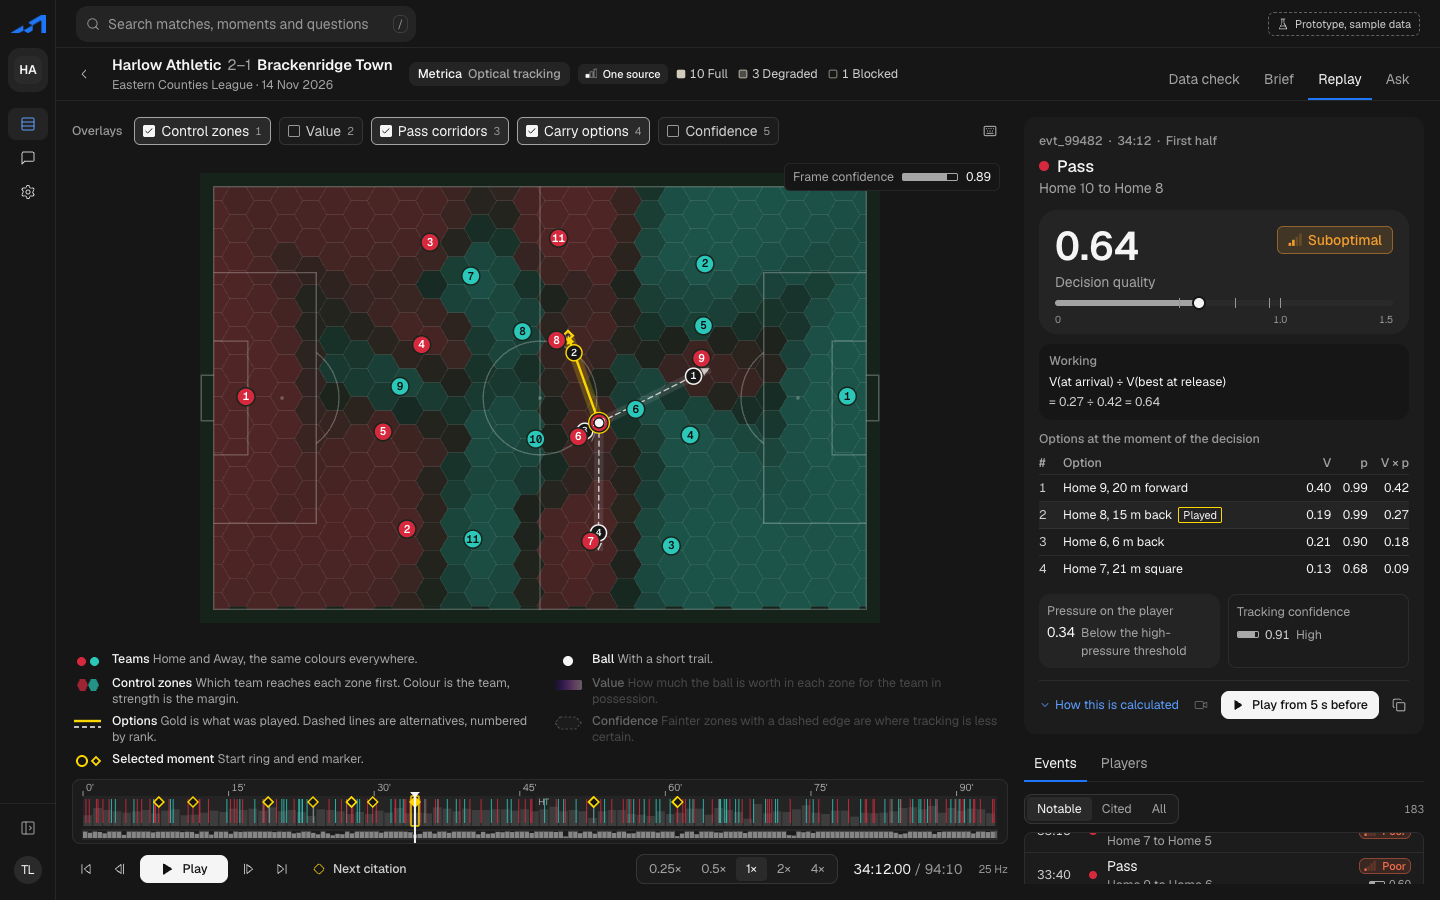
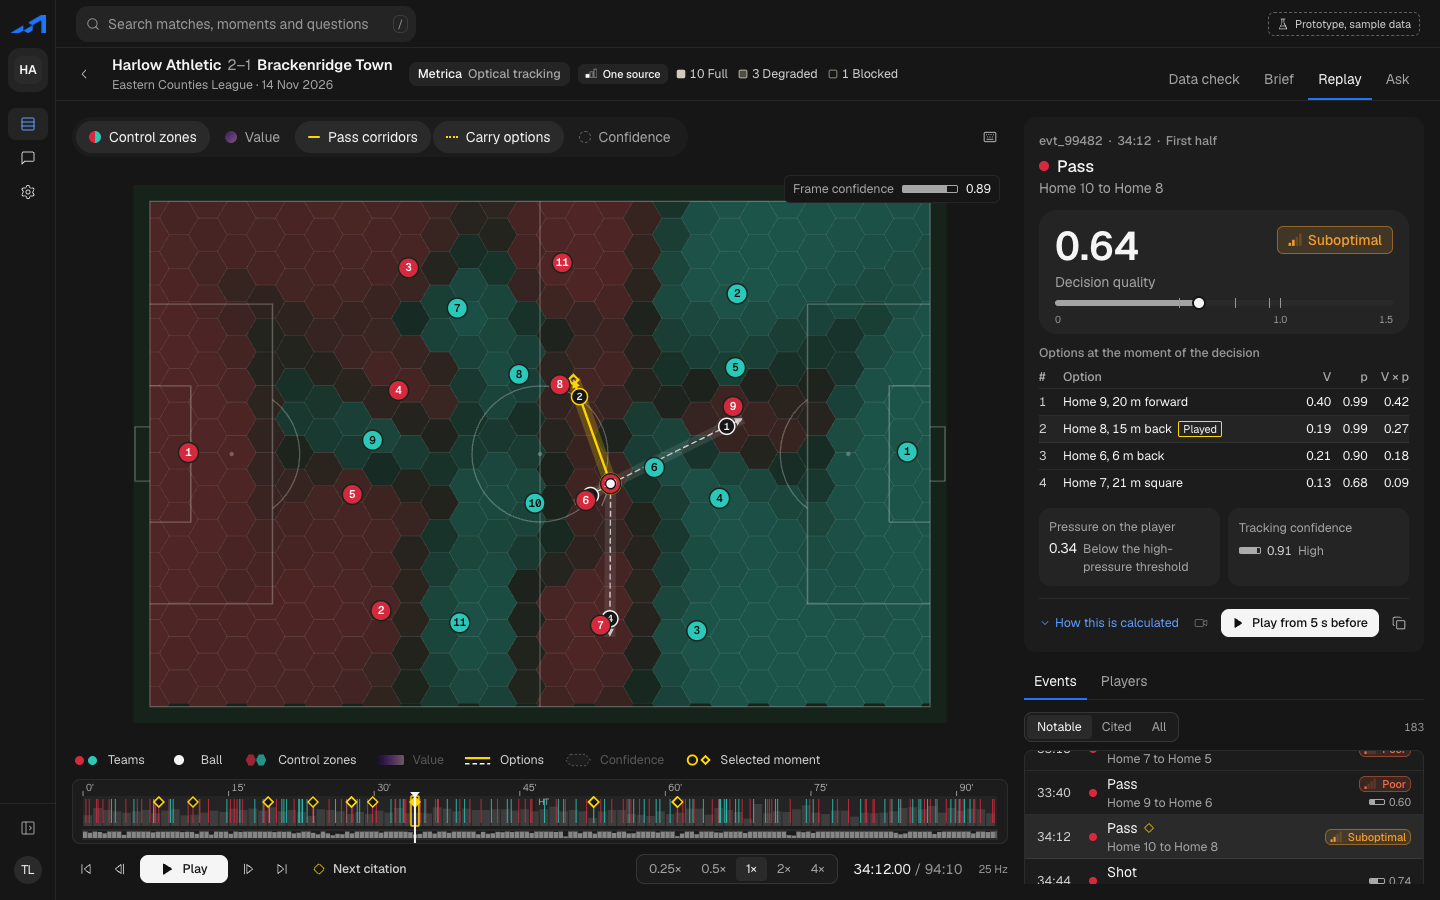
Replay: pill overlay toggles, one-line legend, more room for events
- Overlay toggles as pills in one soft group, each with its own swatch; shortcuts in the tooltip
- Legend as one row of swatch and name; explanations in tooltips; slots still fixed
- Working formula moves under 'How this is calculated'; a score above 1.0 still explained inline
- Explain tiles as fills; dashed edge kept for low confidence

diff --git a/src/pages/Replay.tsx b/src/pages/Replay.tsx
@@ -40,25 +40,43 @@ const TOGGLES: ToggleDef[] = [
   { key: 'confidence', label: 'replay.ov_confidence', metric: null, shortcut: '5', needsPlayers: true },
 ]
 
+/** Small swatch per overlay, matching the legend, so the toggle says what it draws. */
+function OverlaySwatch({ k }: { k: keyof Overlays }) {
+  if (k === 'control')
+    return (
+      <span aria-hidden className="flex size-3 overflow-hidden rounded-full">
+        <span className="h-full w-1/2 bg-home" />
+        <span className="h-full w-1/2 bg-away" />
+      </span>
+    )
+  if (k === 'value') return <span aria-hidden className="size-3 rounded-full" style={{ background: 'linear-gradient(135deg,var(--heat-2),var(--heat-6))' }} />
+  if (k === 'corridors') return <span aria-hidden className="h-0.5 w-3 rounded-full bg-highlight" />
+  if (k === 'carries') return <span aria-hidden className="h-0 w-3 border-t-2 border-dotted border-highlight" />
+  return <span aria-hidden className="size-3 rounded-full border border-dashed border-[var(--conf-ink)]" />
+}
+
 function OverlayToggle({ def, on, state, reason, disabled, onChange }: { def: ToggleDef; on: boolean; state: ParityState | null; reason?: string; disabled: boolean; onChange: (v: boolean) => void }) {
+  // Toggle pills (reference style): on is a soft fill in full colour, off is quiet text.
+  // The keyboard shortcut lives in the tooltip and the shortcuts popover, not on the pill.
   const btn = (
     <button
       type="button"
       aria-pressed={on}
+      aria-keyshortcuts={def.shortcut}
+      title={reason ? undefined : `${t(def.label)} (${def.shortcut})`}
       disabled={disabled}
       onClick={() => onChange(!on)}
       className={cn(
-        'inline-flex h-7 items-center gap-1.5 rounded-sm border px-2 text-sm transition-colors duration-[var(--dur-fast)] disabled:cursor-not-allowed',
-        on ? 'border-fg-3 bg-s3 text-fg-1' : 'border-hair-strong bg-s1 text-fg-2 hover:bg-s2 hover:text-fg-1',
-        disabled && 'border-dashed text-fg-4 hover:bg-s1 hover:text-fg-4',
+        'inline-flex h-8 items-center gap-2 rounded-full border px-3 text-sm transition-colors duration-[var(--dur-fast)] disabled:cursor-not-allowed',
+        on ? 'border-transparent bg-s3 text-fg-1' : 'border-transparent bg-transparent text-fg-3 hover:bg-s2 hover:text-fg-1',
+        disabled && 'border-dashed border-hair-strong text-fg-4 hover:bg-transparent hover:text-fg-4',
       )}
     >
-      <span aria-hidden className={cn('flex size-3 items-center justify-center rounded-[2px] border', on ? 'border-fg-1 bg-fg-1 text-canvas' : 'border-fg-4')}>
-        {on ? <Check className="size-2.5" strokeWidth={3} /> : null}
+      <span className={cn('flex items-center', !on && 'opacity-50')}>
+        <OverlaySwatch k={def.key} />
       </span>
       {t(def.label)}
       {state && state !== 'full' ? <ParityIcon state={state} size={11} /> : null}
-      <span className="font-mono text-2xs text-fg-4">{def.shortcut}</span>
     </button>
   )
   if (!reason) return btn
@@ -290,11 +308,12 @@ function EventsPane(props: { lp: LoadedPack; store: PlaybackStore; cited: string
 function Toolbar({ lp, store, overlays, setOverlays, avail }: { lp: LoadedPack; store: PlaybackStore; overlays: Overlays; setOverlays: React.Dispatch<React.SetStateAction<Overlays>>; avail: (d: ToggleDef) => { state: ParityState | null; blocked: boolean; reason?: string } }) {
   return (
     <div className="flex flex-wrap items-center gap-2" role="toolbar" aria-label={t('replay.overlays')}>
-      <span className="mr-1 text-xs font-medium text-fg-4">{t('replay.overlays')}</span>
-      {TOGGLES.map((d) => {
-        const a = avail(d)
-        return <OverlayToggle key={d.key} def={d} on={overlays[d.key] && !a.blocked} state={a.state} reason={a.reason} disabled={a.blocked} onChange={(v) => setOverlays((o) => ({ ...o, [d.key]: v }))} />
-      })}
+      <div className="flex flex-wrap items-center gap-0.5 rounded-full bg-s1 p-1">
+        {TOGGLES.map((d) => {
+          const a = avail(d)
+          return <OverlayToggle key={d.key} def={d} on={overlays[d.key] && !a.blocked} state={a.state} reason={a.reason} disabled={a.blocked} onChange={(v) => setOverlays((o) => ({ ...o, [d.key]: v }))} />
+        })}
+      </div>
       <div className="ml-auto flex items-center gap-3">
         <Popover>
           <PopoverTrigger asChild>

diff --git a/src/components/replay/ExplainCard.tsx b/src/components/replay/ExplainCard.tsx
@@ -45,7 +45,7 @@ function Head({ e, htAt }: { e: MatchEvent; htAt: number }) {
 function Confidence({ e }: { e: MatchEvent }) {
   const low = confLevel(e.conf) === 'low'
   return (
-    <div className={cn('mt-3 rounded-md border p-2.5', low ? 'border-dashed border-[var(--conf-ink)]' : 'border-hair')}>
+    <div className={cn('mt-3 rounded-lg border p-2.5', low ? 'border-dashed border-[var(--conf-ink)]' : 'border-transparent bg-s2')}>
       <div className="flex items-center justify-between gap-2">
         <span className="text-sm text-fg-3">{t('explain.confidence')}</span>
         <ConfidenceIndicator value={e.conf} />
@@ -77,7 +77,7 @@ function Tiles({ e }: { e: MatchEvent }) {
   return (
     <>
       <div className="mt-3 grid grid-cols-2 gap-2">
-        <div className="rounded-lg bg-s2 p-2">
+        <div className="rounded-lg bg-s2 p-2.5">
           <p className="text-xs text-fg-3">{t('explain.pressure')}</p>
           <p className="mt-0.5 flex items-baseline gap-1.5 text-sm">
             <span className="font-mono tabular-nums text-fg-1">{e.press.toFixed(2)}</span>
@@ -90,7 +90,7 @@ function Tiles({ e }: { e: MatchEvent }) {
             )}
           </p>
         </div>
-        <div className={cn('rounded-md border p-2', low ? 'border-dashed border-[var(--conf-ink)]' : 'border-hair')}>
+        <div className={cn('rounded-lg border p-2.5', low ? 'border-dashed border-[var(--conf-ink)]' : 'border-transparent bg-s2')}>
           <p className="text-xs text-fg-3">{t('explain.confidence')}</p>
           <div className="mt-0.5">
             <ConfidenceIndicator value={e.conf} />
@@ -143,14 +143,9 @@ function Measured({ e }: { e: MatchEvent }) {
         <DqScale value={e.dq ?? 0} />
       </div>
 
-      <div className="mt-2.5 rounded-lg bg-canvas px-2.5 py-2">
-        <p className="text-xs font-medium text-fg-4">{t('explain.working')}</p>
-        <p className="mt-0.5 font-mono text-[12.5px] tabular-nums text-fg-1">V(at arrival) ÷ V(best at release)</p>
-        <p className="font-mono text-[12.5px] tabular-nums text-fg-2">
-          = {vA.toFixed(2)} ÷ {vB.toFixed(2)} = {(e.dq ?? 0).toFixed(2)}
-        </p>
-        {(e.dq ?? 0) >= DQ_ELEVATED ? <p className="mt-1.5 text-xs text-fg-2">{t('explain.elevated')}</p> : null}
-      </div>
+      {/* The working formula now opens under "How this is calculated"; a score above 1.0 is
+          explained here because it would otherwise read as an error. */}
+      {(e.dq ?? 0) >= DQ_ELEVATED ? <p className="mt-2 text-xs text-fg-2">{t('explain.elevated')}</p> : null}
 
       <div className="mt-2.5">
         <p className="text-xs font-medium text-fg-4">{t('explain.alternatives')}</p>
@@ -272,9 +267,16 @@ function Simple({ e }: { e: MatchEvent }) {
   )
 }
 
-function HowContent() {
+function HowContent({ e }: { e: MatchEvent }) {
   return (
     <Collapsible.Content className="mt-2 flex flex-col gap-1.5 border-t border-hair pt-2 text-xs text-fg-2">
+      <div className="rounded-lg bg-s2 px-3 py-2">
+        <p className="text-xs font-medium text-fg-3">{t('explain.working')}</p>
+        <p className="mt-0.5 font-mono text-sm tabular-nums text-fg-1">V(at arrival) ÷ V(best at release)</p>
+        <p className="font-mono text-sm tabular-nums text-fg-2">
+          = {(e.vA ?? 0).toFixed(2)} ÷ {(e.vB ?? 0).toFixed(2)} = {(e.dq ?? 0).toFixed(2)}
+        </p>
+      </div>
       <p>{t('explain.how_1')}</p>
       <p>{t('explain.how_2')}</p>
       <p>
@@ -325,7 +327,7 @@ export function ExplainCard({ event, htAt, onPlayFrom, onCopy }: { event: MatchE
             </Button>
           </div>
         </div>
-        {measured ? <HowContent /> : null}
+        {measured ? <HowContent e={e} /> : null}
       </Collapsible.Root>
     </section>
   )

diff --git a/src/components/replay/Legend.tsx b/src/components/replay/Legend.tsx
@@ -2,13 +2,13 @@ import { t } from '@/i18n'
 import type { Overlays } from './PitchCanvas'
 import { TeamDot } from '@/components/ui/badges'
 
+/** One legend entry: swatch and name on one line; the explanation is the tooltip. */
 function Item({ swatch, label, hint, off }: { swatch: React.ReactNode; label: string; hint: string; off?: boolean }) {
   return (
-    <li className={off ? 'flex items-start gap-2 opacity-35' : 'flex items-start gap-2'} aria-hidden={off || undefined}>
-      <span className="mt-0.5 flex h-4 w-8 shrink-0 items-center justify-center">{swatch}</span>
-      <span className="min-w-0 text-xs leading-4">
-        <span className="font-medium text-fg-1">{label}</span> <span className="text-fg-3">{hint}</span>
-      </span>
+    <li className={off ? 'flex items-center gap-2 opacity-35' : 'flex items-center gap-2'} aria-hidden={off || undefined} title={`${label}: ${hint}`}>
+      <span className="flex h-4 w-7 shrink-0 items-center justify-center">{swatch}</span>
+      <span className="whitespace-nowrap text-xs text-fg-2">{label}</span>
+      <span className="sr-only">{hint}</span>
     </li>
   )
 }
@@ -16,7 +16,7 @@ function Item({ swatch, label, hint, off }: { swatch: React.ReactNode; label: st
 /** Every legend slot is always present (dimmed when its overlay is off), so the pitch never jumps. */
 export function Legend({ overlays, eventOnly }: { overlays: Overlays; eventOnly: boolean }) {
   return (
-    <ul className="grid grid-cols-2 gap-x-6 gap-y-1.5" aria-label={t('legend.title')}>
+    <ul className="flex flex-wrap items-center gap-x-5 gap-y-1.5" aria-label={t('legend.title')}>
       <Item
         swatch={
           <span className="flex items-center gap-1">
